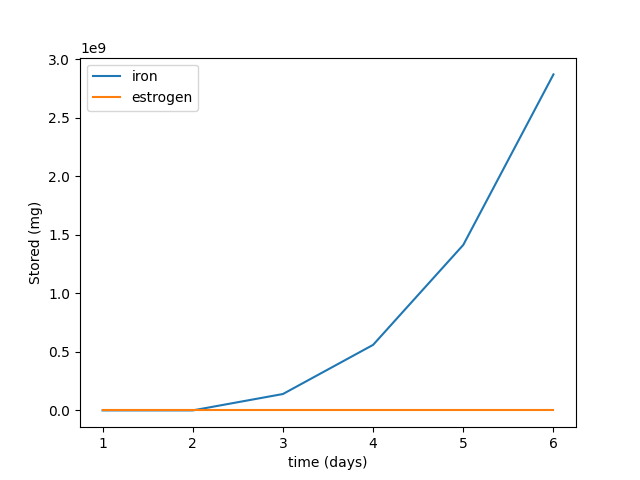
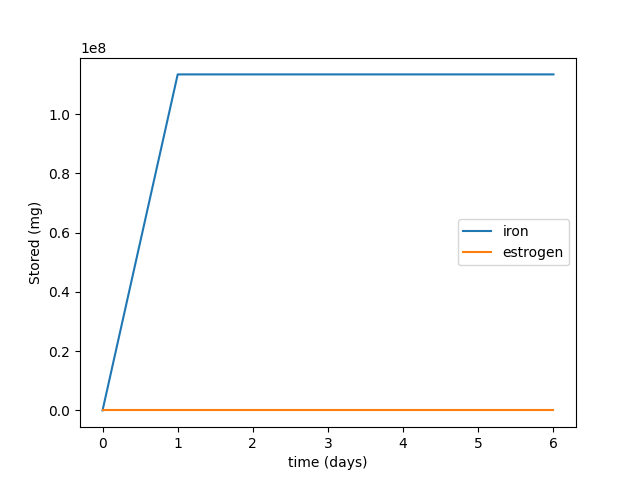
days 0-6

diff --git a/equations.py b/equations.py
@@ -5,7 +5,7 @@ import initial_numbers as c
 #ironMR = c.bloodflowQ*c.ironC
 
 #~~~~~~~~~~~  lists ~~~~~~~~~~#
-time = np.linspace(1,6,num=6) #6 days , list values in hours.
+time = np.linspace(0,6,num=7) #7 days , list values in days.
 cycle = np.linspace(1, 28, num=200) #28 days
 blossrate = np.zeros(time.size)
 totalblost = np.zeros(time.size)
@@ -16,7 +16,7 @@ prog = np.zeros(cycle.size)
 #ironRep = np.zeros(time.size)    initial: acc = in-out-con
 ironStor = np.zeros(time.size)
 #ironStor[0] = (c.m2iron + c.base_m6hemo) - (c.m4hemo + c.m5hemo) - c.conIron
-ironStor[0] = 250
+ironStor[0] = 250 #mg
 #ironROB = np.zeros(time.size)
 
 #hemo acc:
@@ -61,21 +61,26 @@ for i in range(cycle.size) :
 #small intestine: no acc of anything, nothing to track.
 
 #initial value for hepcidin: 
-hep[0] = c.hepIron*ironStor[0] + 1220000 + c.hepEst*est[0] + 0.678
+hep[0] = c.hepIron*(c.m4hemo+c.m5hemo)*.00343 + 25.75 + c.hepEst*est[0] + 0.678
+blossrate[0] = 0 #day 0 of cycle, no bloodlost.
 
-for i in range(time.size-1) :
+for i in range(1,time.size) :
+    
+    hemo9[i] = (c.m4hemo + c.m8hemo -blossrate[i])
+    hemo6[i] = (c.m3hemo  + hemo9[i] + c.m5hemo - c.m8hemo)
+    
+    hep[i] = 25.75 + c.hepEst*est[0] + 0.678
+
+    
     #STORAGE:
-    ironStor[i+1] = c.ironHep*hep[i]  
+    ironStor[i] = ironStor[i-1] + c.ironHep*hep[i] +186.7
 
     #hemo 
 
-    hemo9[i+1] = hemo9[i] + (c.m4hemo + c.m8hemo -blossrate[i])
-    hemo6[i+1] = hemo6[i] + (c.m3hemo  + hemo9[i] + c.m5hemo - c.m8hemo)
 
     #hep is downregulated by estrogen and downregulated by low iron.
-    hep[i+1] = hep[i] + c.hepEst*est[i] + 0.678
     #if iron falls below normal/initial storage level, hep is decreased.
-    hep[i+1] += c.hepIron*(hemo6[i]) # or ironStor[0] - ironStor[i]
+    # or ironStor[0] - ironStor[i]
 
 
 print("times: ", time)
@@ -83,6 +88,7 @@ print("iron in storage: ", ironStor)
 print("hep: ", hep)
 print("hemo6: ", hemo6)
 print("est: ", est)
+print("blood: ", blossrate)
 
 
 

diff --git a/initial_numbers.py b/initial_numbers.py
@@ -42,10 +42,10 @@ genIron = c #changes to accommmodate the fluctuations in accumulation in storage
 accEst = c #accumulation of estrogen in the reproductive system, varies per day
 
 #relationships between hepcidin/iron/estrogen (normal) - all of these values should be calculated from the lists in the for loops
-hepIron = -7298/3#*m7hemo + 1220000 #mg/day, used to calculate the amount of hepcidin based on amount of hemoglobin leaving through menstruation, changes daily
+hepIron = -0.138#*m7hemo + 25.75 #mg/day, used to calculate the amount of hepcidin based on amount of hemoglobin leaving through menstruation, changes daily
 hepEst = -0.891#*accEst + 0.678 #mg/day, used to calculate the amount of hepcidin based on the amount of estrogen
 hepTotal = hepIron + hepEst #total hepcidin per day
-ironHep = -0.00137/3#*hepTotal - 3275.4 #total iron in storage
+ironHep = -7.26#*hepTotal +186.98 #total iron in storage
 
 
 #normal values that are most relevant to graphing
